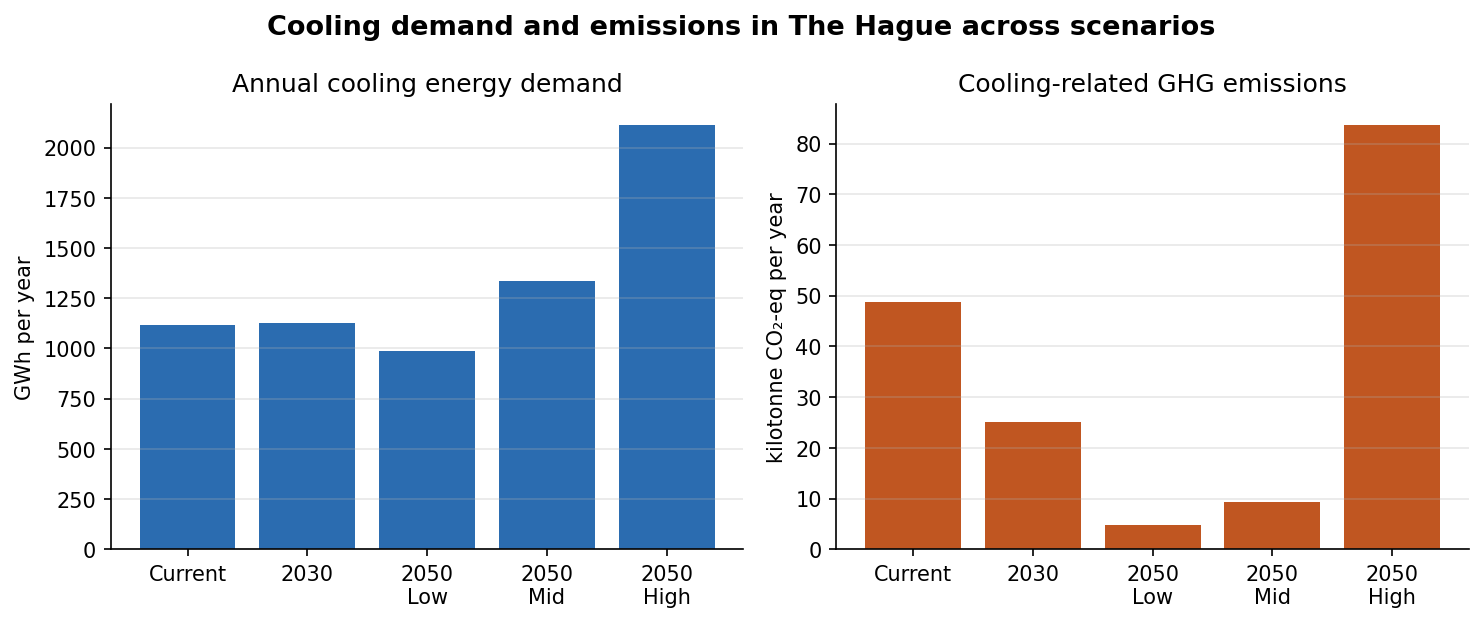
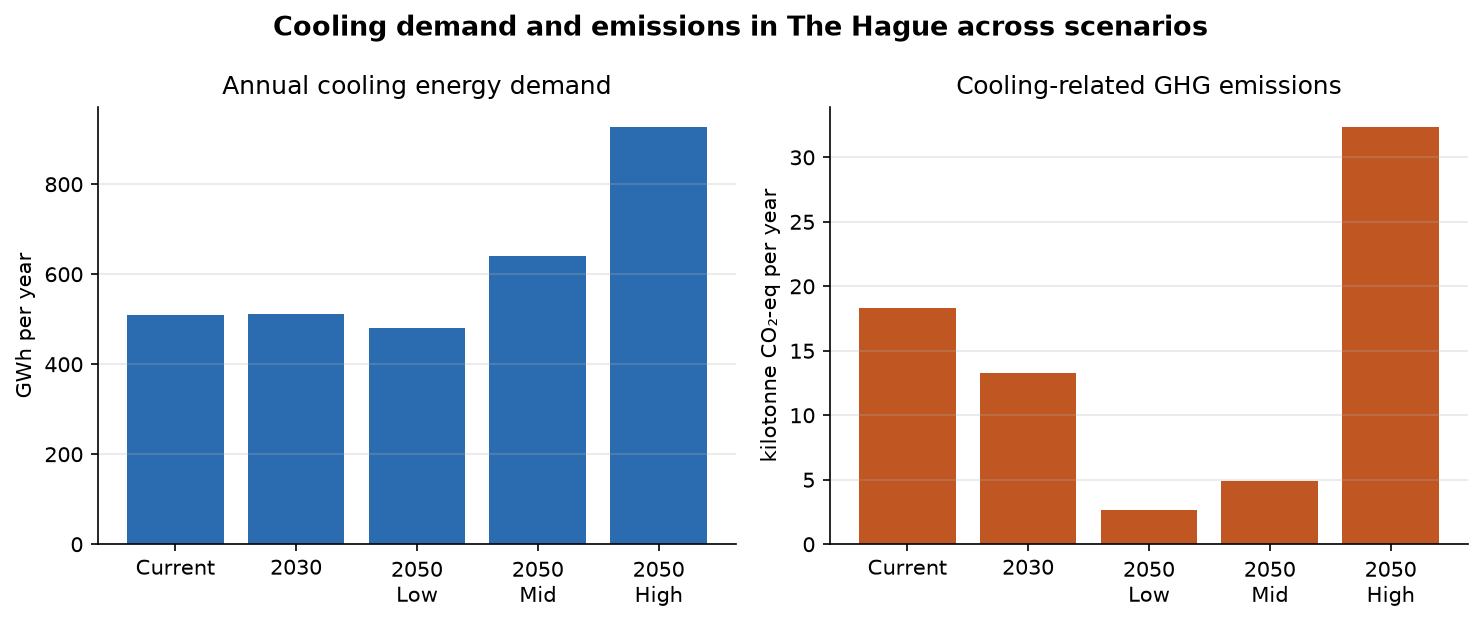
docs(readme): show the current model's key findings and figure (#45)
- the figure and the four headline numbers now come from the post-heat-island results the dashboard uses, as printed by scripts/paper_numbers.py
- drop the office electricity bullet, which no current output supports

diff --git a/README.md b/README.md
@@ -39,19 +39,20 @@ the GitHub Pages deployment.
 
 ## Key findings
 
-These are the thesis results. The dashboard runs the current model (2021–2025 weather, 2025 grid
-carbon intensity), so its numbers differ.
+These are the results of the current model (2021–2025 weather with the urban heat island, 2025
+grid carbon intensity), the same ones the dashboard shows. `scripts/paper_numbers.py` prints them
+from `results/`. The 2023 thesis used older weather and grid data, so its numbers differ.
 
 ![Cooling demand and emissions across scenarios](docs/scenario_overview.png)
 
-- Offices occupy only **13%** of the floor area but account for **34%** of current cooling demand
-  and **65%** of cooling-related greenhouse-gas emissions.
-- Cooling already represents about **25%** of office electricity use, against **5.5%** for
-  residential buildings.
-- An estimated **77%** of cooling demand is currently unmet, and that gap falls hardest on
-  economically disadvantaged neighbourhoods.
-- Under a business-as-usual 2050 scenario, cooling energy demand roughly **doubles** relative to
-  today, putting pressure on the Netherlands' 2050 net-zero target.
+- The Hague needs about **527 GWh** of cooling a year. Offices occupy only **11%** of the floor
+  area but account for **54%** of that demand and **79%** of cooling-related greenhouse-gas
+  emissions.
+- An estimated **54%** of cooling demand is currently unmet, and the gap is worst in
+  the lower-income neighbourhoods where the heat island is strongest.
+- By 2050, cooling demand changes by **−7%** to **+79%** against today across the low and high
+  scenarios (**+24%** in the middle one). Emissions fall in every 2050 scenario except the high
+  one, where they rise by **76%**.
 
 The full method and discussion are in the
 [thesis](https://repository.tudelft.nl/record/uuid:32222863-536f-464a-b8c6-6c2283a7249a).
